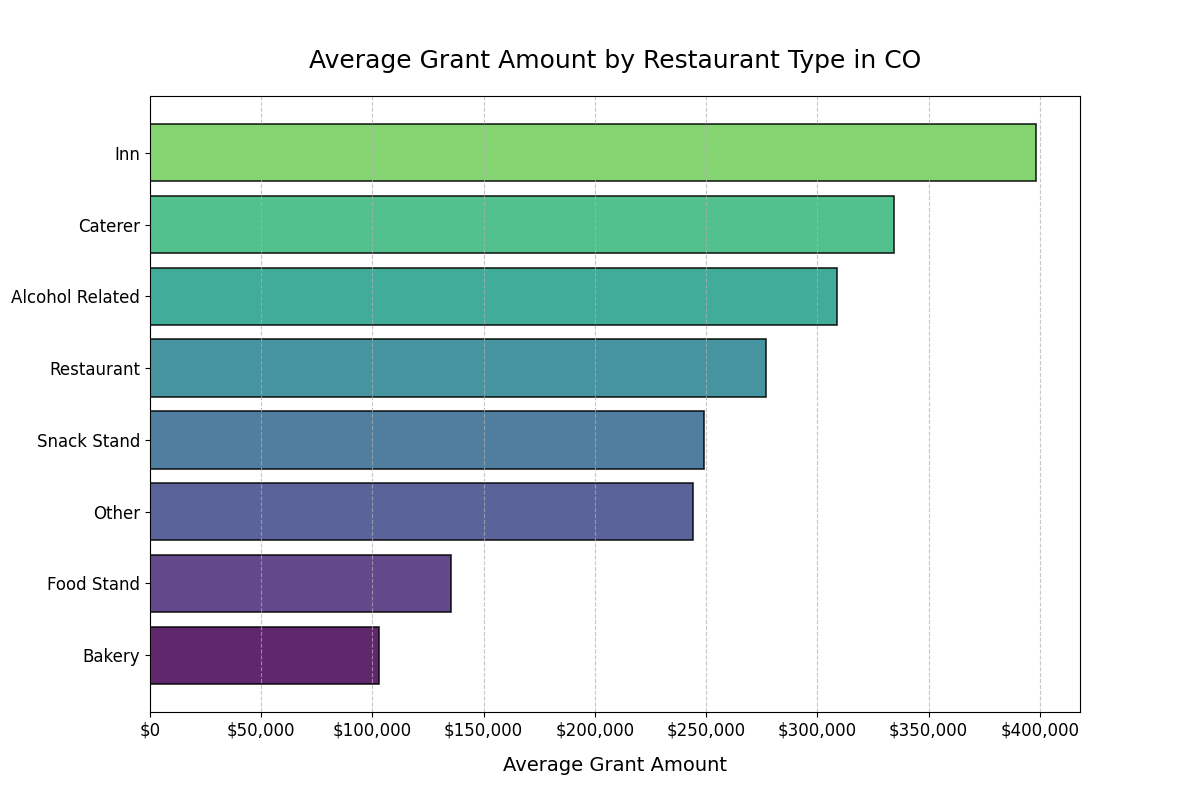
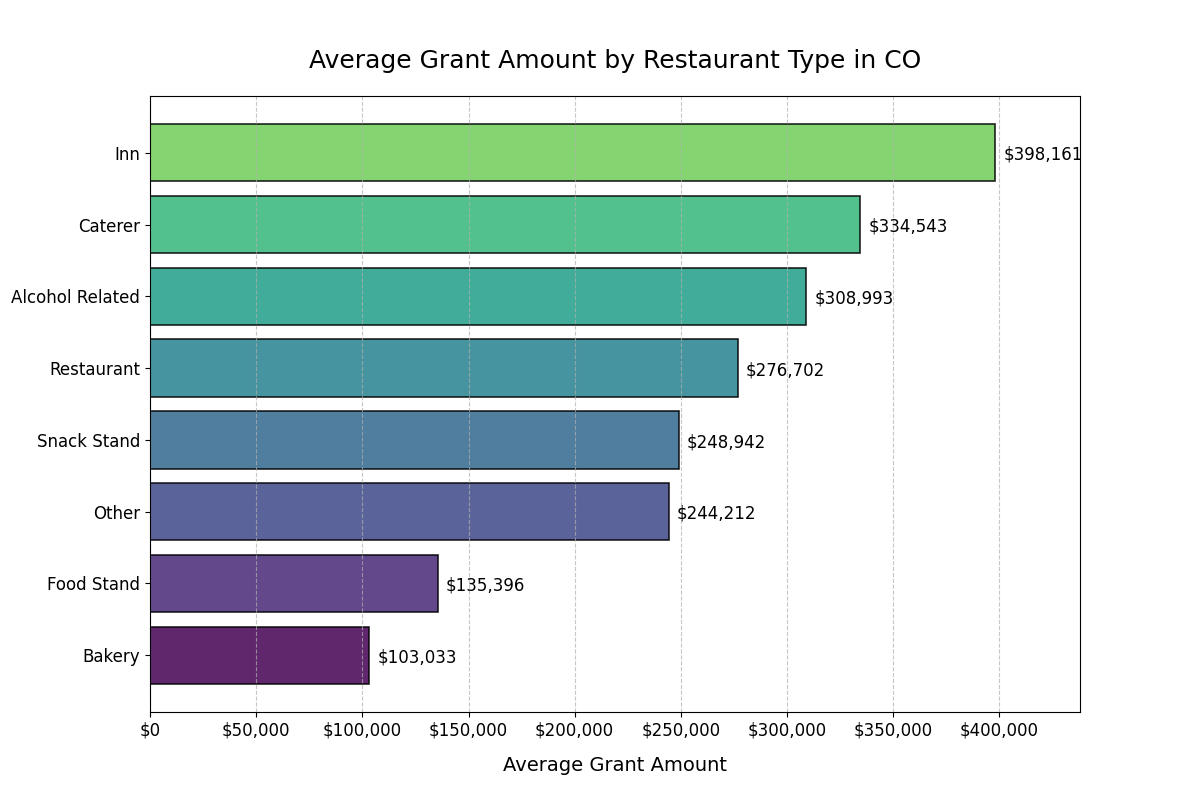
final version

diff --git a/data.py b/data.py
@@ -19,23 +19,30 @@ df = pd.read_csv(file_path)
 df_CO = df[df['BusinessState'] == 'CO']
 df_CO['GroupedRestaurantType'] = df_CO['RestaurantType'].apply(group_restaurant_types)
 
-# Find the average
-grouped_data = df_CO.groupby('GroupedRestaurantType')['GrantAmount'].mean()
+# Find the average and count of grants for each restaurant type
+grouped_data = df_CO.groupby('GroupedRestaurantType')['GrantAmount'].agg(['mean', 'count'])
 
 N = 10 
-grouped_data = grouped_data.sort_values(ascending=True).tail(N)
+grouped_data = grouped_data.sort_values(by='mean', ascending=True).tail(N)
 
-plt.figure(figsize=(12, 8))
+fig, ax = plt.subplots(figsize=(12, 8))
+
 bar_colors = plt.cm.viridis(np.linspace(0, 1, N))
-bar_plot = plt.barh(grouped_data.index.str.title(), grouped_data.values, color=bar_colors, edgecolor='black', linewidth=1.2, alpha=0.85)
+bar_plot = ax.barh(grouped_data.index.str.title(), grouped_data['mean'], color=bar_colors, edgecolor='black', linewidth=1.2, alpha=0.85)
 
-plt.grid(axis='x', linestyle='--', alpha=0.7)
-plt.ylabel('Restaurant Type', fontsize=14, labelpad=12)
-plt.xlabel('Average Grant Amount', fontsize=14, labelpad=12)
-plt.title('Average Grant Amount by Restaurant Type in CO', fontsize=18, pad=20)
+# Display the average grant amount for each restaurant type at the end of the bar graph
+for i, v in enumerate(grouped_data['count']):
+    offset = grouped_data['mean'].max() * 0.01
+    ax.text(grouped_data['mean'][i] + offset, i - 0.1, '${:,.0f}'.format(grouped_data['mean'][i]), fontsize=12)
+
+
+ax.grid(axis='x', linestyle='--', alpha=0.7)
+ax.set_ylabel('Restaurant Type', fontsize=14, labelpad=12)
+ax.set_xlabel('Average Grant Amount', fontsize=14, labelpad=12)
+ax.set_title('Average Grant Amount by Restaurant Type in CO', fontsize=18, pad=20)
+ax.set_xlim([0, grouped_data['mean'].max() * 1.1])
 
 # Format x-axis as dollar amounts
-ax = plt.gca()
 formatter = ticker.FuncFormatter(lambda x, pos: '${:,.0f}'.format(x))
 ax.xaxis.set_major_formatter(formatter)
 plt.xticks(fontsize=12)
